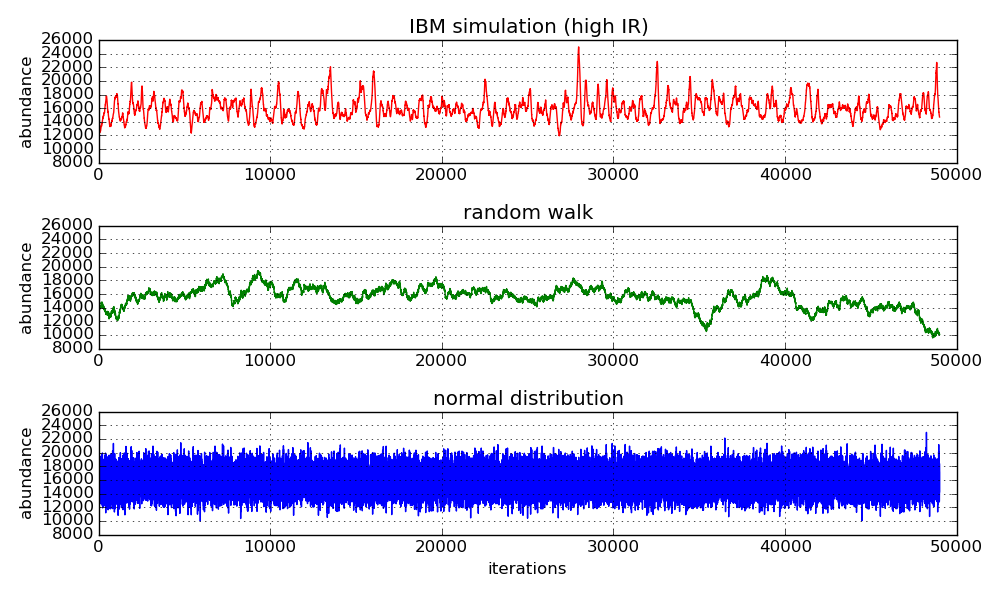
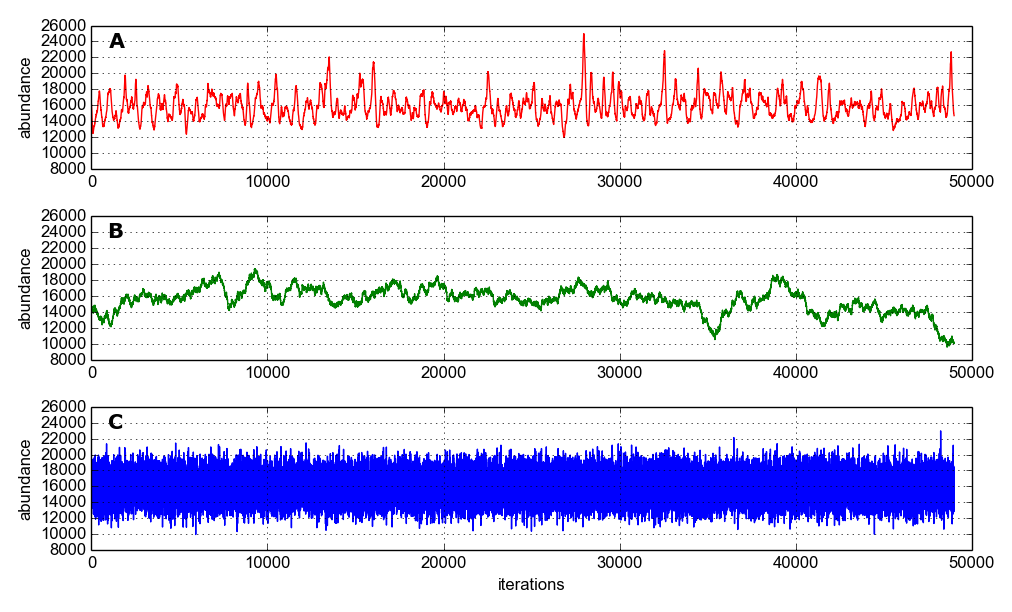
Commit before pull

Changed region(s): [[0.0, 0.03, 0.992, 0.63], [0.0, 0.63, 0.992, 0.93], [0.465, 0.93, 0.558, 0.99]]

diff --git a/steady_state/compare_rw_ns_hi.py b/steady_state/compare_rw_ns_hi.py
@@ -4,6 +4,8 @@ import statsmodels.tsa.stattools as ts
 from ss_utilities import stats_at_discrete_times, compare_plot_state_and_stats, plot_state_and_stats, plot_zscore
 from ss_utilities import  _autocorr, stats_at_discrete_times
 
+fsa = 15
+
 plot_dynamics = True 
 plot_corr = False
 plot_zscore = False 
@@ -23,9 +25,9 @@ hi = hi[1000:-1]
 rw = rw[1000:-1]
 ns = ns[1000:-1]
 
-hi_corr = _autocorr(hi)
-rw_corr = _autocorr(rw)
-ns_corr = _autocorr(ns)
+#hi_corr = _autocorr(hi)
+#rw_corr = _autocorr(rw)
+#ns_corr = _autocorr(ns)
 
 
 if plot_corr:
@@ -51,7 +53,7 @@ if plot_dynamics:
 	AX[0].set_ylabel('abundance')
 	AX[0].grid()
 	AX[0].set_ylim([8000,26000])
-	AX[0].annotate("A", (0,0), (0.02,0.9), color='black', fontsize= fsa, fontweight='bold', xycoords='data', textcoords='axes fraction')
+	AX[0].annotate("A", (0,8000), (0.02,0.85), color='black', fontsize= fsa, fontweight='bold', xycoords='data', textcoords='axes fraction')
 	#AX[0].set_title('IBM simulation (high IR)')
 	AX[1].plot(rw, 'g', label= 'random walk')
 	result = ts.adfuller(rw) 
@@ -59,7 +61,7 @@ if plot_dynamics:
 	AX[1].set_ylabel('abundance')
 	AX[1].grid()
 	AX[1].set_ylim([8000,26000])
-	AX[1].annotate("B", (0,0), (0.02,0.9), color='black', fontsize= fsa, fontweight='bold', xycoords='data', textcoords='axes fraction')
+	AX[1].annotate("B", (0,8000), (0.02,0.85), color='black', fontsize= fsa, fontweight='bold', xycoords='data', textcoords='axes fraction')
 	#AX[1].set_title('random walk')
 	AX[2].plot(ns, 'b', label= 'normal distribution')
 	result = ts.adfuller(ns) 
@@ -69,7 +71,7 @@ if plot_dynamics:
 	AX[2].set_xlabel('iterations')
 	AX[2].set_ylabel('abundance')
 	AX[2].grid()
-	AX[2].annotate("C", (0,0), (0.02,0.9), color='black', fontsize= fsa, fontweight='bold', xycoords='data', textcoords='axes fraction')
+	AX[2].annotate("C", (0,8000), (0.02,0.85), color='black', fontsize= fsa, fontweight='bold', xycoords='data', textcoords='axes fraction')
 	#plt.legend()
 	plt.tight_layout()
 	plt.show()
